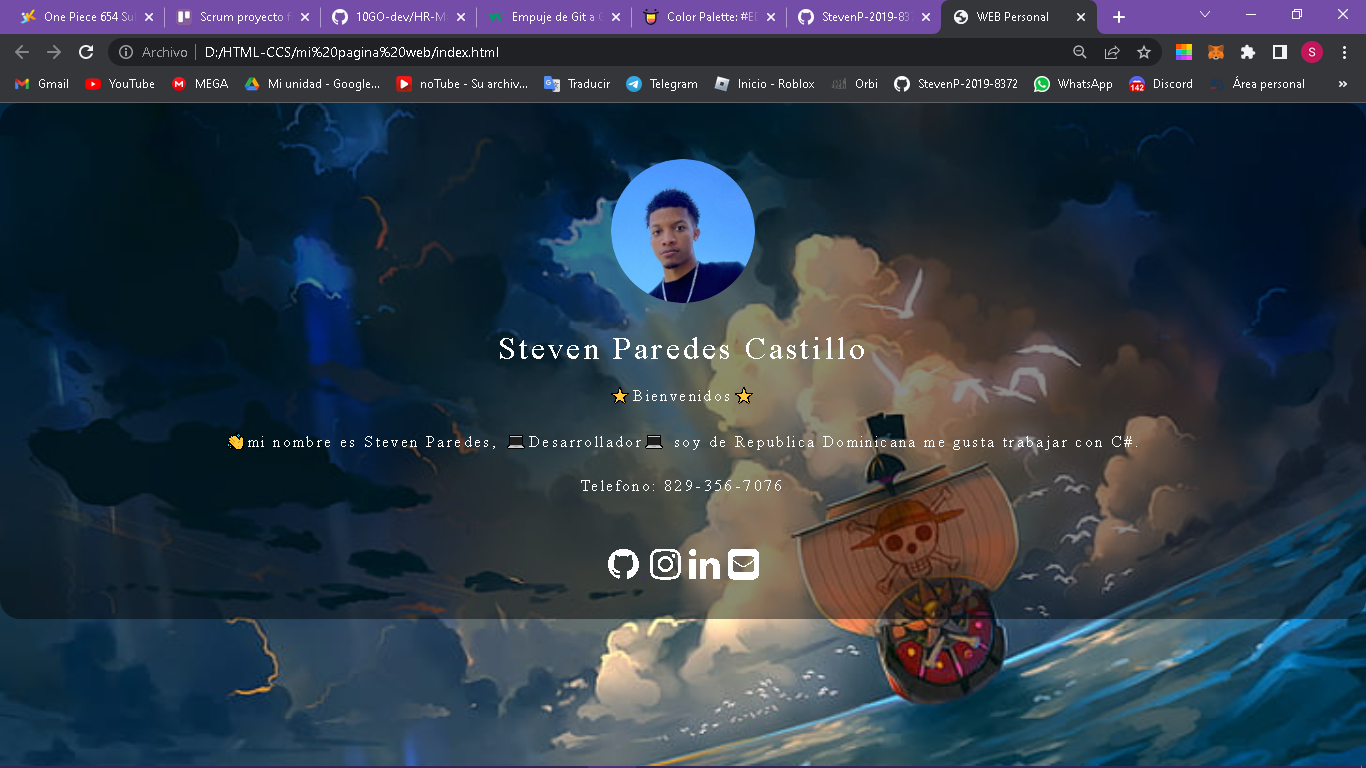
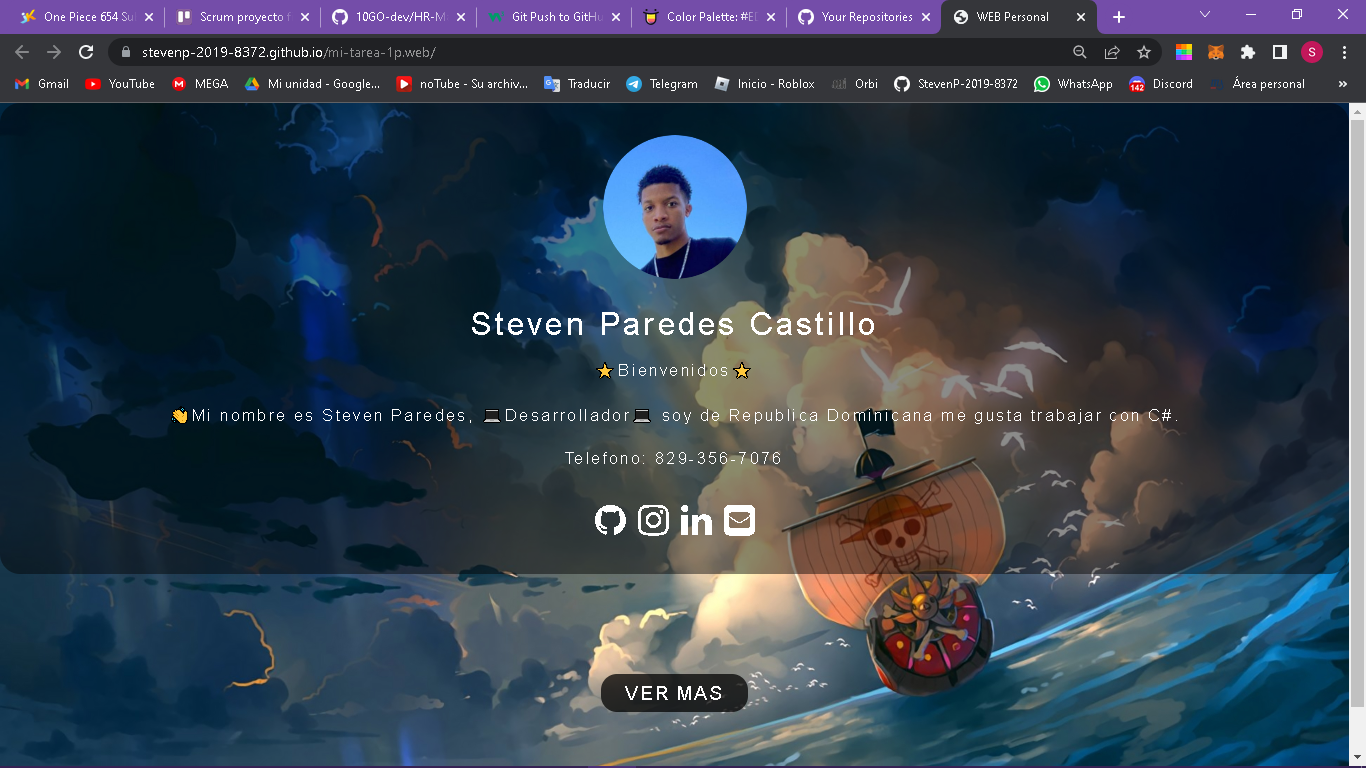
touch add repository

diff --git a/touch.css b/touch.css
@@ -1,0 +1,120 @@
+:root{
+    --background:#000 ;
+    --ripple:rgb(74, 7, 207) ;
+}
+*{
+    margin: 0%;
+    padding: 0%;
+    box-sizing: border-box;
+    font-family: 'poppin',sans-serif;
+}
+.box{
+    position: relative;
+    background: var(--background);
+    display: flex;
+    width: 100vw;
+    height: 100vh;
+    align-items: center;
+    justify-content: center;
+    overflow: hidden;
+}
+.box span{
+    position: absolute;
+    box-shadow: 0 0 4px var(--ripple),
+                inset 0 0 4px var(--ripple);
+    animation: ripple 5s linear;
+    border-radius: 50%;
+    transform: translate(-50%, -50%);
+}
+@keyframes ripple {
+    0%{
+        width: 0;
+        height: 0;
+    }
+    90%{
+        width: 350px;
+        height: 350px;
+    }
+    100%{
+        opacity: 0;
+    }    
+}
+.box h2 {
+    font-size: 7rem;
+    position: absolute;
+    cursor: pointer;
+}
+.border{
+    color: #000;
+    text-shadow:
+        -1px -1px 0 #fff,
+        1px -1px 0 #fff,
+        1px 1px 0 #fff,
+        -1px 1px 0 #fff
+}
+.wave{
+    color: var(--ripple);
+    animation: wave 3s ease-in-out infinite;
+}
+@keyframes wave {
+    0%, 100%{
+        clip-path: polygon(
+            0% 47%,
+            10% 48%,
+            33% 54%,
+            54% 60%,
+            70% 61%,
+            84% 59%,
+            100% 52%,
+            100% 100%,
+            0% 100%
+        );
+    }
+    50%{
+        clip-path: polygon(
+            0% 60%,
+            15% 65%,
+            34% 66%,
+            51% 62%,
+            67% 50%,
+            85% 45%,
+            100% 46%,
+            100% 100%,
+            0% 100%
+        );
+    }    
+}
+.link{
+    display:flex ;
+    margin-top: 20%;
+    justify-content: space-evenly;
+}
+.link a{
+    font-size: 2rem;
+    letter-spacing: 2px;
+    text-decoration: none;
+    color: #000;
+    position: relative;
+    text-shadow:
+        -1px -1px 0 var(--ripple),
+        1px -1px 0 var(--ripple),
+        1px 1px 0 var(--ripple),
+        -1px 1px 0 var(--ripple)
+}
+.link a::after{
+    content: "";
+    position: absolute;
+    right: 0;
+    bottom: 0;
+    left: 0;
+    height: 2px;
+    width: 100%;
+    background-color: var(--ripple);
+    transform-origin: right;
+    transform: scaleX(0);
+    transition: transform 0.2s ease-in-out;
+}
+.link a:hover::after{
+    transform-origin: left;
+    transform: scaleX(1);
+}

diff --git a/homestyle.css b/homestyle.css
@@ -6,7 +6,7 @@
 }
 body{
     background-size: 500%;
-    background-image: linear-gradient(45deg,white,black);
+    background-image: linear-gradient(45deg,gray,black);
     position: relative;
     animation: camp 10s ease infinite;
 }
@@ -25,7 +25,7 @@ body{
     width: 100%;
     height: 100%;
     transition: all 500ms ease-out;
-    mix-blend-mode: multiply;
+    mix-blend-mode:difference;
     filter: grayscale(100%);  
 }
 .box-u{
@@ -34,30 +34,7 @@ body{
     box-shadow: 0 15px 25px #000;
     overflow: hidden;
 }
-.box-u .capa {
-    position: absolute;
-    top: 0;    
-    width: 100%;
-    height: 100%;
-    opacity: 0;
-    visibility: hidden;
-    transition: all 500ms ease-out;    
-}
-.box-u .capa .img2{
-    width: 100%;
-    height: 100%;
-    mix-blend-mode: multiply;
-    filter: grayscale(100%);    
-}
-.box-u:hover> .capa{
-    opacity: 1;
-    visibility: visible;
-        
-}
-.box-u:hover> .img{
-    visibility: hidden;
-       
-}
+
 .box2{
     display: flex;
     justify-content: center;

diff --git a/touch.html b/touch.html
@@ -1,0 +1,21 @@
+<!DOCTYPE html>
+<html lang="en">
+    <head>
+        <meta charset="UTF-8">
+        <meta http-equiv="X-UA-Compatible" content="IE=edge">
+        <meta name="viewport" content="width=device-width, initial-scale=1.0">
+        <title>WEB Personal</title>
+        <link rel="stylesheet" href="touch.css">
+        <meta http-equiv="X-UA-Compatible" content="ie=edge">
+    </head>
+    <body>
+        <div class="box">
+            <h2 class="border">touch mi</h2>
+            <h2 class="wave">touch mi</h2>
+            <div class="link">
+                <a href="index.html">volver</a>
+            </div>
+        </div>
+        <script src="touch.js"></script>
+    </body>
+</html>

diff --git a/home.html b/home.html
@@ -14,14 +14,11 @@
                 <div class="box">
                     <figure class="box-u">
                         <img src="./fotos_tare/wallpaperbetter.com_1024x768.jpg" alt="" class="img">
-                        <div class="capa">
-                            <img src="./fotos_tare/gokuultra.jpg" alt="" class="img2"> 
-                        </div> 
                     </figure>
                     
                 </div>
                 <div class="box2">
-                    <a href="#"class="brd"><span>Ver mas</span></a>
+                    <a href="touch.html"class="brd"><span>Ver mas</span></a>
                 </div>
     
             </section>

diff --git a/touch.js b/touch.js
@@ -1,0 +1,15 @@
+const box = document.querySelector('.box')
+
+const createRepple =(e)=>{
+    let ripple =document.createElement('span')
+    let x = e.clientX
+    let y=e.clientY
+    ripple.style.left = x+'px'
+    ripple.style.top = y+'px'
+    box.appendChild(ripple)
+    console.log(x,y)
+    setTimeout(() => {
+        ripple.remove()
+    },5000)
+}
+box.addEventListener('click',createRepple)
